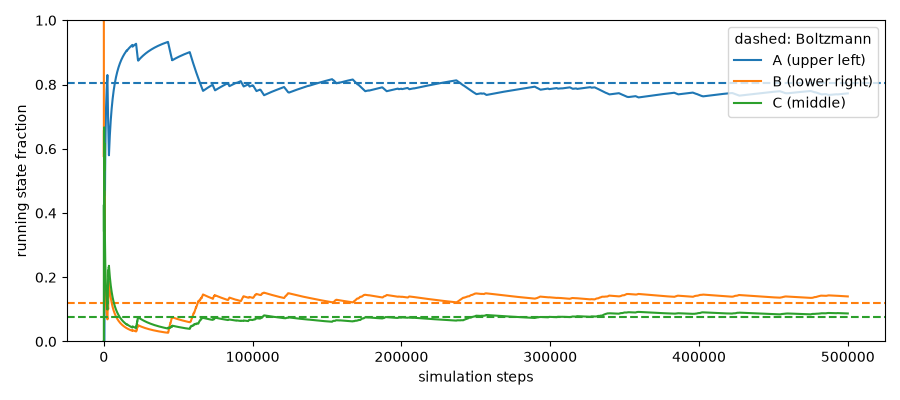
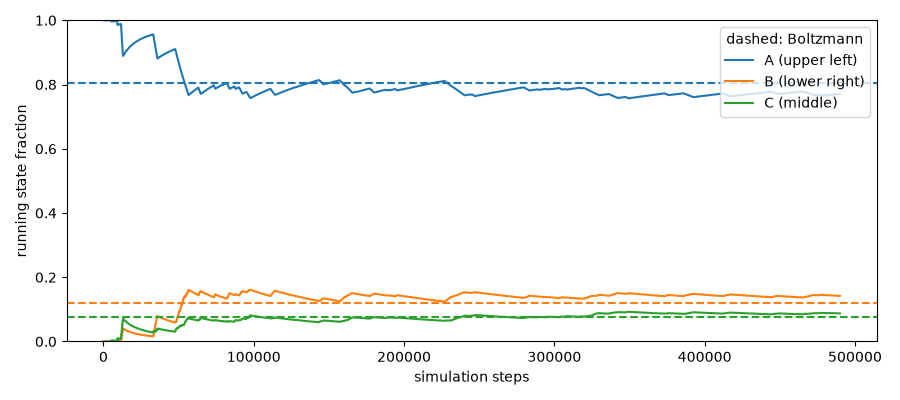
minor fix in calculating the gradient deviation

diff --git a/mueller_brown/main.py b/mueller_brown/main.py
@@ -26,8 +26,8 @@ if __name__ == "__main__":
     #############################################
     # potential and force
     #############################################
-
-    # compare_force_with_autograd(grid_to_points(X, Y))
+    compare_force_with_autograd(grid_to_points(X, Y), dtype=torch.float32)
+    compare_force_with_autograd(grid_to_points(X, Y), dtype=torch.float64)
     # visualize_mueller_brown_potential(X, Y)
     # visualize_boltzmann_density(X, Y, kT=config.kT)
 
@@ -40,12 +40,12 @@ if __name__ == "__main__":
     # start_velocity = torch.randn(1,2)
     # samples = langevin_integrator(start_point, start_velocity, mueller_brown_force, config)
     # save_trajectory(TRAJECTORY_PATH, samples, config, start_point, start_velocity)
-    samples, config, start_point, start_velocity = load_trajectory(TRAJECTORY_PATH)
-    torch.manual_seed(config.seed)
-    equilibrium_samples = samples[BURN_IN:]
+    # samples, config, start_point, start_velocity = load_trajectory(TRAJECTORY_PATH)
+    # torch.manual_seed(config.seed)
+    # equilibrium_samples = samples[BURN_IN:]
 
 
-    visualize_samples_density(equilibrium_samples, samples[0].detach(), X, Y, config, start_velocity, bins=100, x_range=x_range, y_range=y_range)
+    # visualize_samples_density(equilibrium_samples, samples[0].detach(), X, Y, config, start_velocity, bins=100, x_range=x_range, y_range=y_range)
 
     # comparison with the Boltzmann distribution
     # compare_to_boltzmann(equilibrium_samples, kT=config.kT, bins=50, x_range=x_range, y_range=y_range)

diff --git a/mueller_brown/mueller_brown_potential.py b/mueller_brown/mueller_brown_potential.py
@@ -92,27 +92,32 @@ def mueller_brown_force(x):
     return torch.stack((F_x, F_y), dim=1)
 
 
-def compare_force_with_autograd(x):
+def compare_force_with_autograd(x, dtype=torch.float32):
     """
-    Compares the analytic force with the negative gradient of the potential obtained via torch.autograd.
+    Compares the analytic force with the negative gradient of the potential obtained via torch.autograd,
+    with all computations performed in the given floating point precision.
+
 
     Parameters
     ----------
     x : torch.tensor
         tensor of shape (N, 2) with the test points
+    dtype : torch.dtype
+        floating point precision of the comparison, e.g. torch.float32 or torch.float64
 
     Returns
     -------
     tuple of float
         maximum and mean absolute deviation over all points and components
     """
+    x = x.detach().to(dtype)
     analytic_force = mueller_brown_force(x)
 
-    x_grad = x.detach().clone().requires_grad_(True)   # do not modify the input tensor
+    x_grad = x.clone().requires_grad_(True)
     mueller_brown_potential(x_grad).sum().backward()
     autograd_force = -x_grad.grad
 
     deviation = (analytic_force - autograd_force).abs()
     max_error, avg_error = deviation.max().item(), deviation.mean().item()
-    print(f"max absolute difference: {max_error:.3e} | avg absolute difference: {avg_error:.3e}")
+    print(f"{str(dtype):>13} | max absolute difference: {max_error:.3e} | avg absolute difference: {avg_error:.3e}")
     return max_error, avg_error
